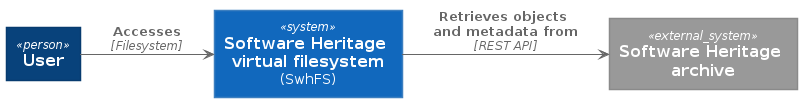
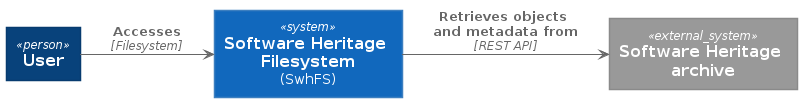
doc: uniform naming of SwhFS as "Software Heritage Filesystem"
most notably drop "virtual" from filesystem everywhere for consistency

Changed region(s): [[0.2788, 0.5047, 0.4957, 0.6449]]

diff --git a/docs/design.md b/docs/design.md
@@ -1,4 +1,4 @@
-# Software Heritage virtual filesystem (SwhFS) --- Design notes
+# Software Heritage Filesystem (SwhFS) --- Design notes
 
 The [Software Heritage](https://www.softwareheritage.org/) {ref}`data model
 <data-model>` is
@@ -6,8 +6,8 @@ a [Direct Acyclic Graph](https://en.wikipedia.org/wiki/Directed_acyclic_graph)
 (DAG) with nodes of different types that correspond to source code artifacts
 such as directories, commits, etc. Using
 this [FUSE](https://en.wikipedia.org/wiki/Filesystem_in_Userspace) module
-(*SwhFS* for short) you can locally mount, and then navigate as a (virtual)
-file system, parts of the archive identified by {ref}`Software Heritage
+(*SwhFS* for short) you can locally mount, and then navigate as a
+filesystem, parts of the archive identified by {ref}`Software Heritage
 identifiers <persistent-identifiers>` (SWHIDs).
 
 To retrieve information about the source code artifacts, SwhFS interacts over

diff --git a/docs/README.rst b/docs/README.rst
@@ -1,7 +1,8 @@
-Software Heritage virtual filesystem (SwhFS)
-============================================
+Software Heritage Filesystem (SwhFS)
+====================================
 
-Virtual filesystem to browse the `Software Heritage
+User-space POSIX filesystem to browse the `Software Heritage
 <https://www.softwareheritage.org/>`_ `archive
-<https://archive.softwareheritage.org/>`_, using the `FUSE
-<https://github.com/libfuse/libfuse>`_ framework.
+<https://archive.softwareheritage.org/>`_, as if it were locally available.
+
+Built using the `FUSE <https://github.com/libfuse/libfuse>`_ framework.

diff --git a/docs/configuration.rst b/docs/configuration.rst
@@ -4,7 +4,7 @@
 Configuration
 =============
 
-The configuration for the Software Heritage virtual file system resides in the
+The configuration for the Software Heritage Filesystem resides in the
 ``swh > fuse`` section of the shared `YAML <https://yaml.org/>`_ configuration
 file used by all Software Heritage tools, located by default at
 ``~/.config/swh/global.yml``.
